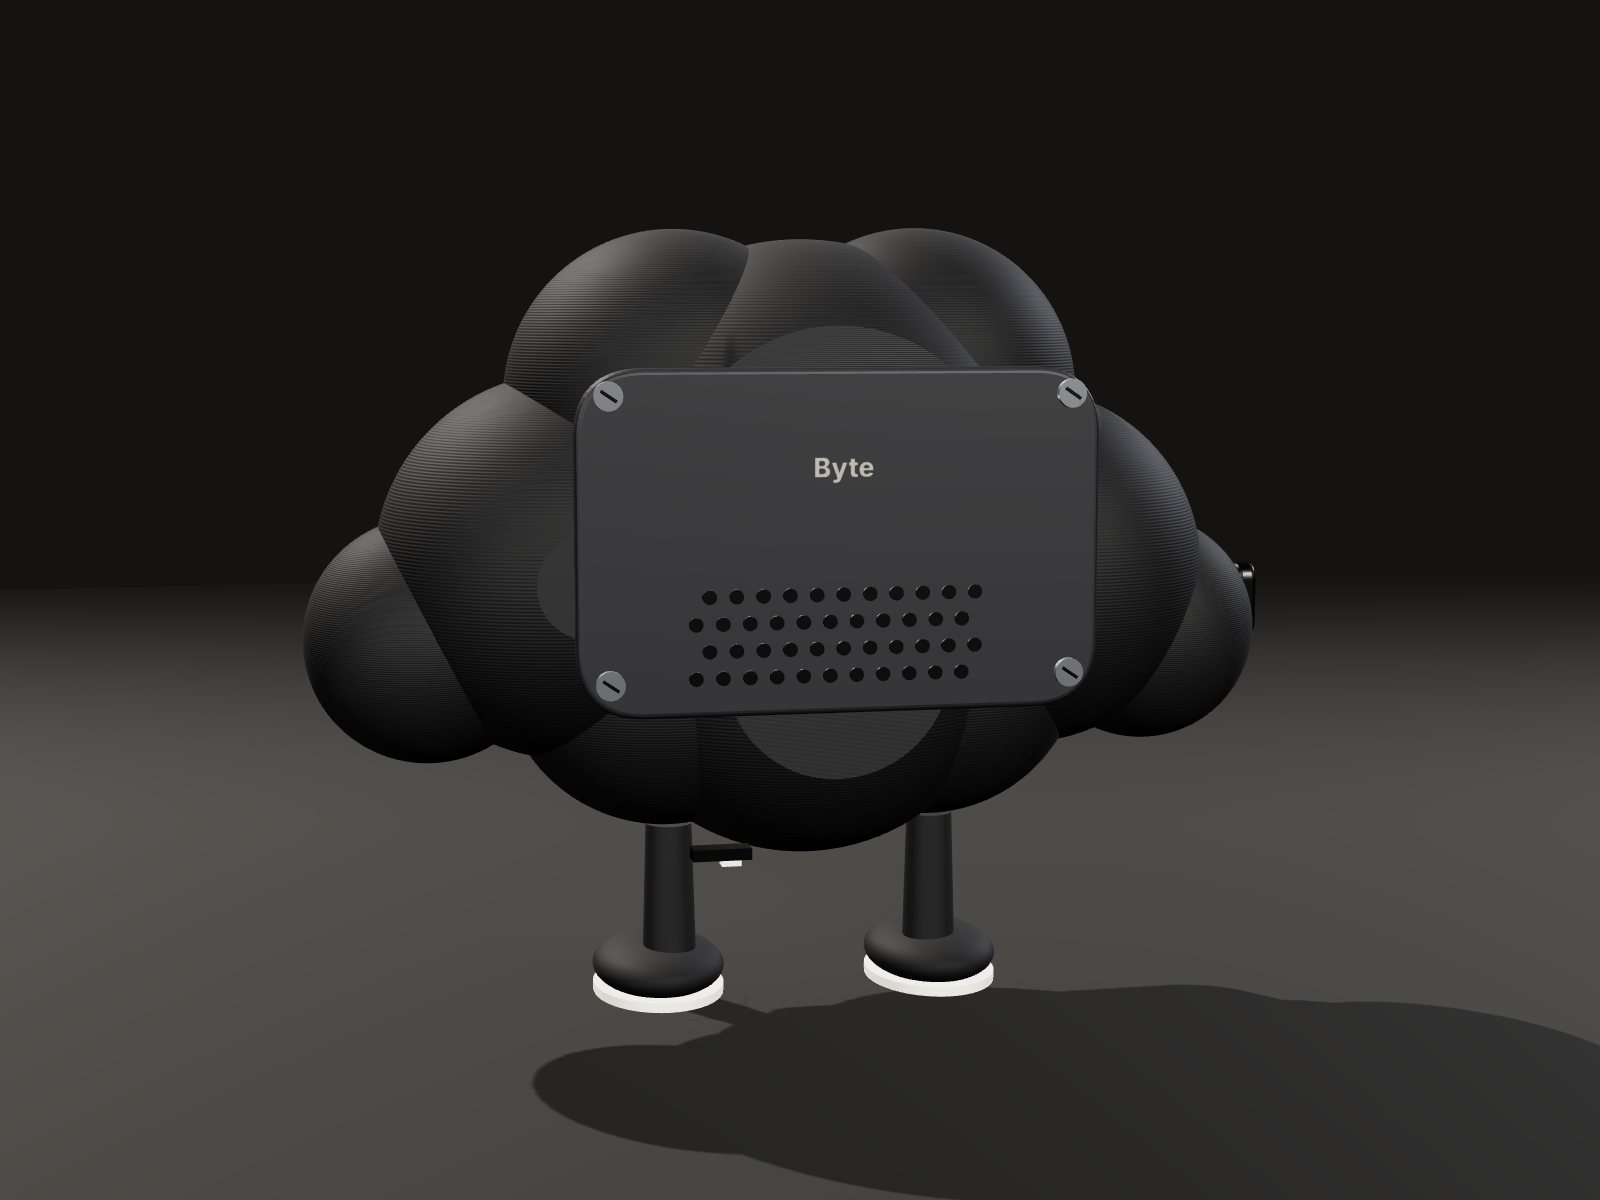
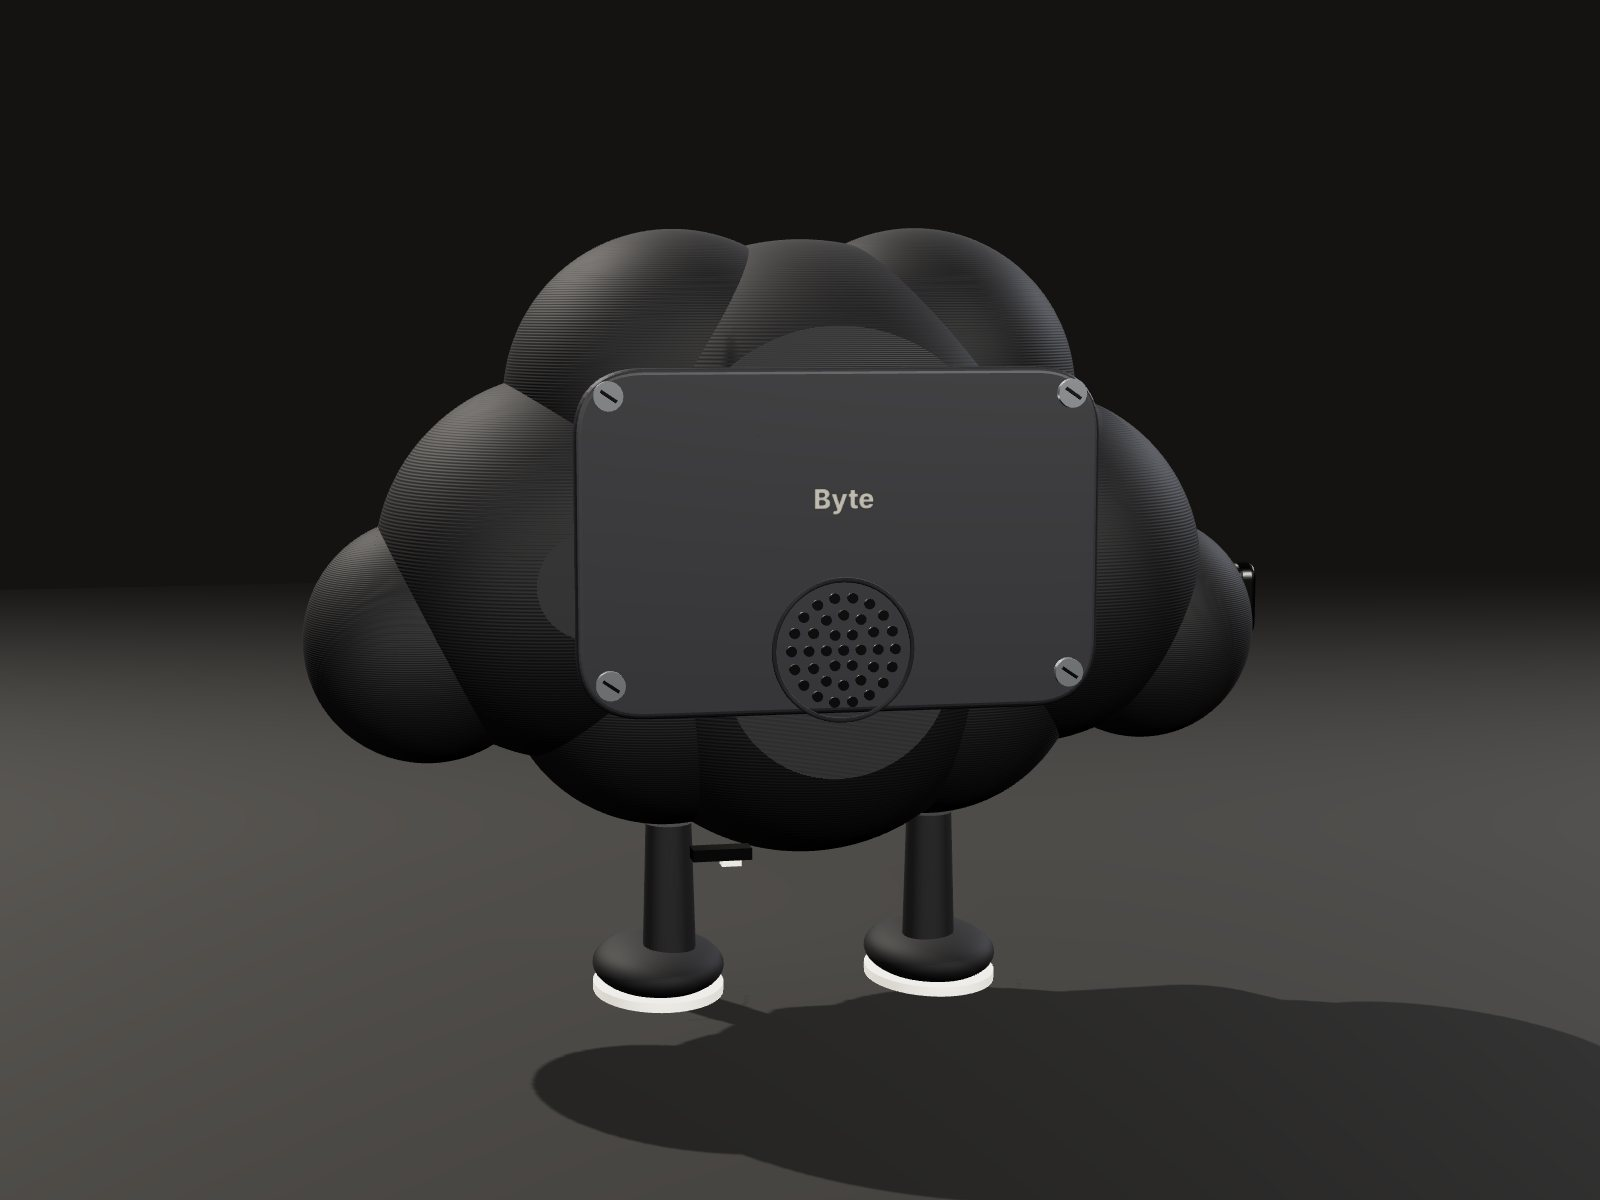
Vista armada corregida y rejilla del parlante abajo de la tapa

Changed region(s): [[0.4375, 0.4933, 0.625, 0.5858], [0.5, 0.37, 0.5625, 0.4317]]

diff --git a/index.html b/index.html
@@ -440,7 +440,7 @@ dialog.lb .prev{left:10px}dialog.lb .next{right:10px}
       <div class="gal" id="gal">
         <button data-i="0"><img src="galeria/frente.jpg" alt="Byte de frente: nube negra mate con pantalla y ojos Eclipse, sobre dos piecitos" loading="lazy" width="1600" height="1200"><span><b>De frente</b>Pantalla de 2,8" y sus ojos Eclipse.</span></button>
         <button data-i="1"><img src="galeria/lado.jpg" alt="Byte en vista de tres cuartos, con el puerto USB-C en el costado" loading="lazy" width="1600" height="1200"><span><b>De lado</b>Volumen de nube y USB-C para cargar.</span></button>
-        <button data-i="2"><img src="galeria/atras.jpg" alt="Byte por detrás: tapa con cuatro tornillos, logo y rejilla del parlante" loading="lazy" width="1600" height="1200"><span><b>Por detrás</b>Tapa de 4 tornillos y rejilla del parlante.</span></button>
+        <button data-i="2"><img src="galeria/atras.jpg" alt="Byte por detrás: tapa con cuatro tornillos, logo y rejilla del parlante" loading="lazy" width="1600" height="1200"><span><b>Por detrás</b>Tapa de 4 tornillos y parlante abajo.</span></button>
         <button data-i="3"><img src="galeria/escritorio.jpg" alt="Byte armado sobre un escritorio de madera junto a una taza de café" loading="lazy" width="1600" height="1200"><span><b>En tu escritorio</b>Del tamaño de una taza de café.</span></button>
       </div>
       <p class="galnote">Renders del diseño que vamos a imprimir en 3D en PLA negro mate, con suelas de TPU. No son fotos: las medidas finales se ajustan cuando tengamos la placa en la mano.</p>
@@ -705,31 +705,31 @@ function startDevice(THREE) {
   lights(THREE, scene);
   const root = new THREE.Group(); scene.add(root);
   const shellMat = new THREE.MeshStandardMaterial({color: 0x0b0b0e, roughness: .7, metalness: .05});
-  const front = new THREE.Group(); front.add(cloudGroup(THREE, shellMat)); front.add(feetGroup(THREE, shellMat)); front.scale.set(1, 1, .55); root.add(front);
+  const front = new THREE.Group(); front.add(cloudGroup(THREE, shellMat)); front.add(feetGroup(THREE, shellMat)); front.scale.set(1, 1, .8); root.add(front);
   const tex2 = new THREE.CanvasTexture(faceCanvas); tex2.encoding = THREE.sRGBEncoding;
   const screen = new THREE.Group();
   const lcd = new THREE.Mesh(new THREE.BoxGeometry(1.75, 1.3, .08), new THREE.MeshStandardMaterial({color: 0x050507, roughness: .25}));
   const lit = new THREE.Mesh(new THREE.PlaneGeometry(1.6, 1.2), new THREE.MeshBasicMaterial({map: tex2, toneMapped: false})); lit.position.z = .045;
   screen.add(lcd, lit); root.add(screen);
-  const pcb = new THREE.Mesh(new THREE.BoxGeometry(2.15, 1.25, .05), new THREE.MeshStandardMaterial({color: 0x1f5a43, roughness: .5, metalness: .2})); root.add(pcb);
+  const pcb = new THREE.Mesh(new THREE.BoxGeometry(1.9, 1.1, .05), new THREE.MeshStandardMaterial({color: 0x1f5a43, roughness: .5, metalness: .2})); root.add(pcb);
   const chip = new THREE.Mesh(new THREE.BoxGeometry(.45, .35, .08), new THREE.MeshStandardMaterial({color: 0x9aa3ad, metalness: .7, roughness: .3})); chip.position.set(.4, .1, -.06); pcb.add(chip);
-  const usb = new THREE.Mesh(new THREE.BoxGeometry(.12, .3, .1), new THREE.MeshStandardMaterial({color: 0xbfc5cc, metalness: .8, roughness: .25})); usb.position.set(-1.06, 0, -.05); pcb.add(usb);
+  const usb = new THREE.Mesh(new THREE.BoxGeometry(.12, .3, .1), new THREE.MeshStandardMaterial({color: 0xbfc5cc, metalness: .8, roughness: .25})); usb.position.set(-.94, 0, -.05); pcb.add(usb);
   const bat = new THREE.Mesh(new THREE.BoxGeometry(1.5, .9, .2), new THREE.MeshStandardMaterial({color: 0xa78bfa, roughness: .45})); root.add(bat);
   const spk = new THREE.Mesh(new THREE.CylinderGeometry(.32, .32, .14, 40), new THREE.MeshStandardMaterial({color: 0xffb238, roughness: .4, metalness: .2})); spk.rotation.x = Math.PI / 2; root.add(spk);
-  const back = new THREE.Mesh(new THREE.BoxGeometry(3.0, 1.9, .12), new THREE.MeshStandardMaterial({color: 0x1a1a21, roughness: .7})); root.add(back);
+  const back = new THREE.Mesh(new THREE.BoxGeometry(1.85, 1.1, .1), new THREE.MeshStandardMaterial({color: 0x1a1a21, roughness: .6})); root.add(back);
   const screws = [];
-  [[-1.35, .7], [1.35, .7], [-1.35, -.7], [1.35, -.7]].forEach(([x, y]) => { const s = new THREE.Mesh(new THREE.CylinderGeometry(.05, .05, .5, 12), new THREE.MeshStandardMaterial({color: 0xcfd4da, metalness: .9, roughness: .2})); s.rotation.x = Math.PI / 2; s.position.set(x, y, 0); root.add(s); screws.push(s); });
-  const st = {rx: .12, ry: -1.05, idle: 0}; drag(canvas, st);
+  [[-.8, .3], [.8, .3], [-.8, -.55], [.8, -.55]].forEach(([x, y]) => { const s = new THREE.Mesh(new THREE.CylinderGeometry(.05, .05, .5, 12), new THREE.MeshStandardMaterial({color: 0xcfd4da, metalness: .9, roughness: .2})); s.rotation.x = Math.PI / 2; s.position.set(x, y, 0); root.add(s); screws.push(s); });
+  const st = {rx: .12, ry: -.8, idle: 0}; drag(canvas, st);
   const slider = $('#explode');
   let ex = +slider.value / 100;
   const tick = now => {
     const t = now / 1000; fit(r, cam, canvas);
     ex += (+slider.value / 100 - ex) * .12;
     const k = ex * 1.4;
-    front.position.z = .2 + k * 2.4; screen.position.z = .55 + k * 1.2;
+    front.position.z = .2 + k * 2.4; screen.position.z = front.position.z + .66;
     pcb.position.z = .38 - k * 0; bat.position.z = .18 - k * .7; spk.position.set(0, -.75 - k * .5, .2 - k * .2);
-    back.position.z = -.25 - k * 2.0; screws.forEach(s => s.position.z = -.5 - k * 3.0);
-    st.idle++; if (!reduce && st.idle > 90) st.ry += (Math.sin(t * .3) * .3 - 1.05 - st.ry) * .02;
+    back.position.set(0, -.12, -.48 - k * 2.0); screws.forEach(s => s.position.z = -.3 - k * 3.0);
+    st.idle++; if (!reduce && st.idle > 90) st.ry += (Math.sin(t * .3) * .3 - .8 - st.ry) * .02;
     root.rotation.set(st.rx, st.ry, 0);
     r.render(scene, cam); requestAnimationFrame(tick);
   };
